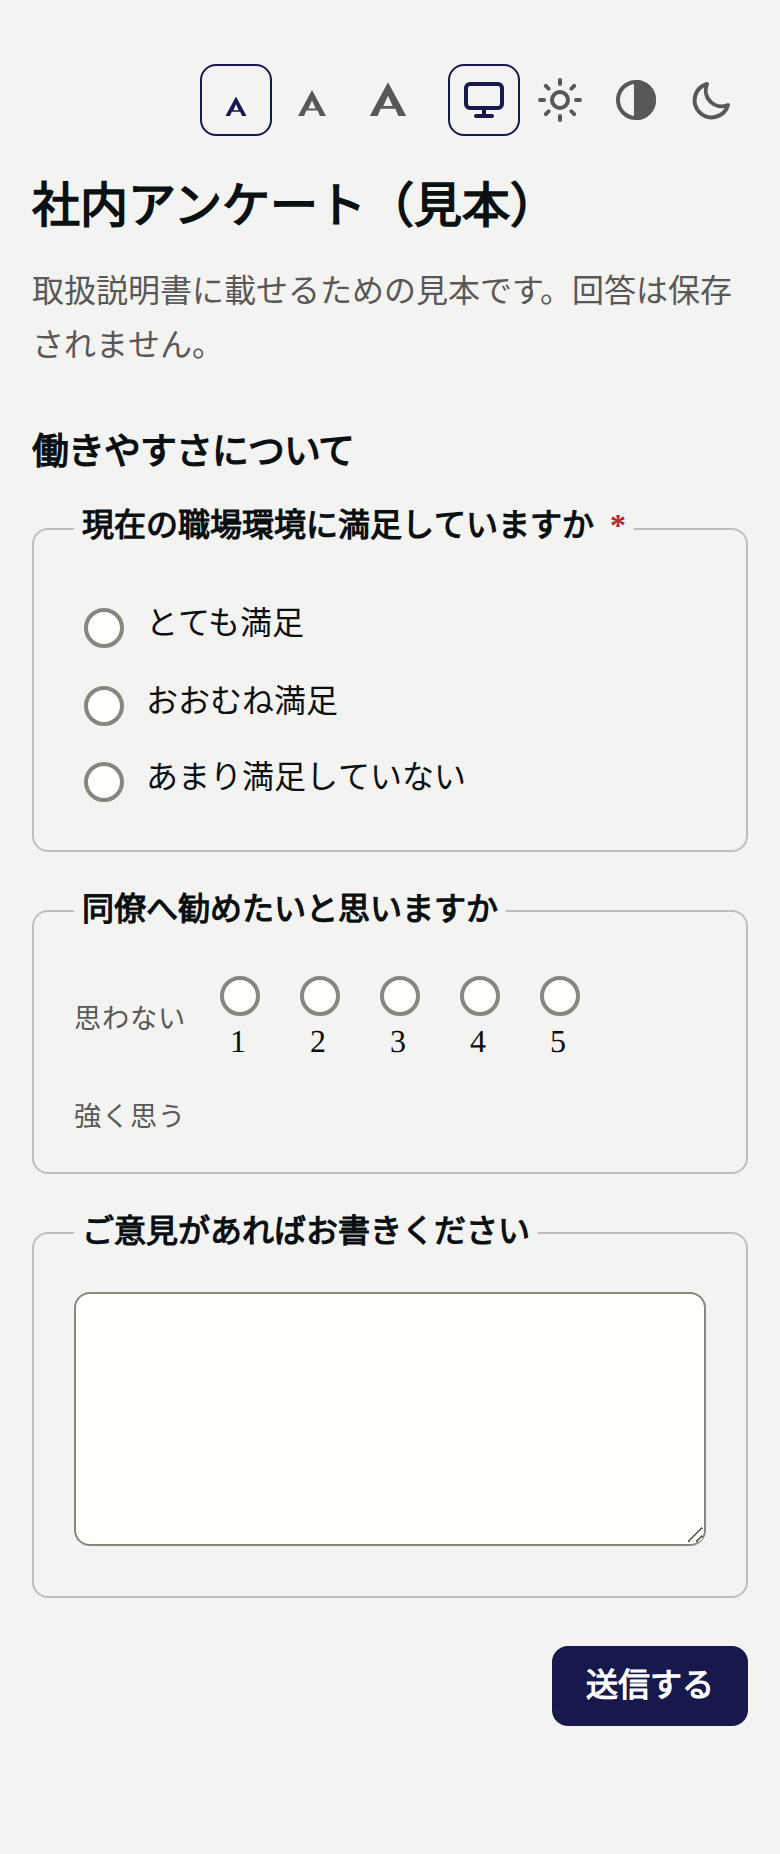
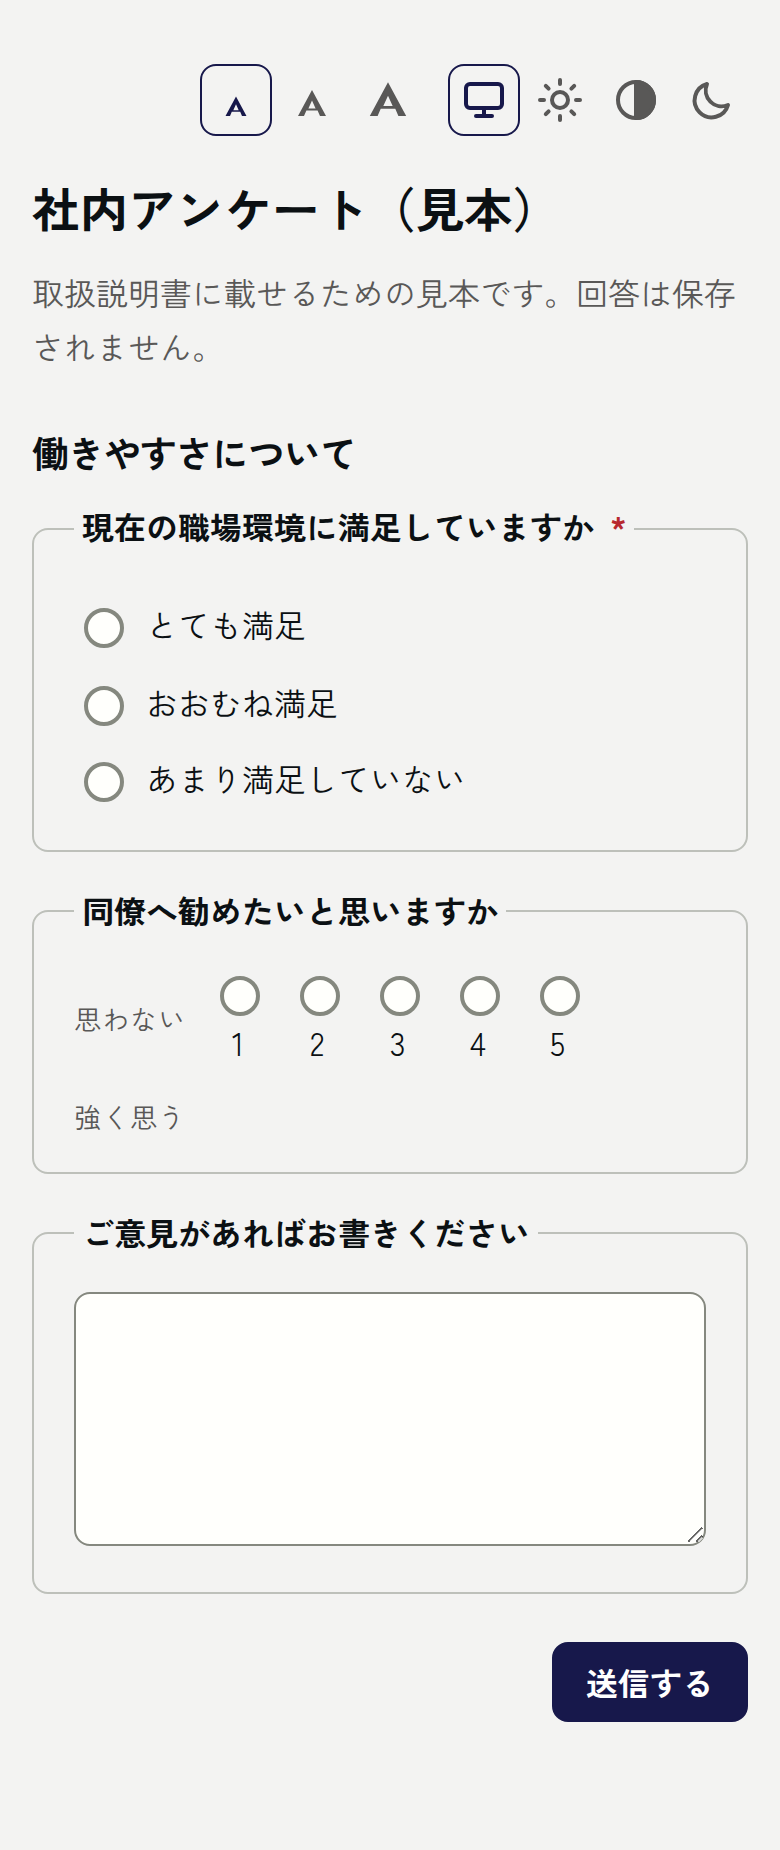
取説の画面の写しを新しい書体（Zen Kaku Gothic New・DesignReference 2.4）で撮り直す
なぜ: #791・#792 で回答画面の既定書体と同梱書体が変わり、写しが古くなったため。
取説の「等幅は半角英数字だけが等幅」は Myrica M（日本語も等幅）と食い違うので直した。
検証: 既定の一式（npm run shot）で 91 件通過。回答画面・管理画面の写しを目視し、豆腐・崩れ・実データが無いことを確認。
pleasanter-sso の 1 件は Pleasanter 利用者の seed を入れていないため落ちた（写しの対象外で、admin-19・20 はコミットしていない）。

diff --git a/_documents/アンケート作成-運用手順書.md b/_documents/アンケート作成-運用手順書.md
@@ -253,7 +253,7 @@ SAML や Pleasanter のログイン（シングルサインオン）を有効に
 - **書体は 4 種類ともアプリに同梱している**（ゴシック体・明朝体・丸ゴシック体・等幅）ので、
   回答者の端末に無くても同じ見た目になる
     - 外部から書体を読み込まないので、**インターネットへ出られない環境でも崩れない**
-    - **等幅は半角英数字だけが等幅**になる（日本語はゴシック体で出る）
+    - **等幅は日本語も等幅**になる（Myrica M。半角:全角 = 1:2）
     - 同梱しているのは日本語の書体なので、**中国語（簡体字）にしか無い字は回答者の端末の書体で出る**
       （[`多言語対応方針.md`](多言語対応方針.md) 4.1）
 
